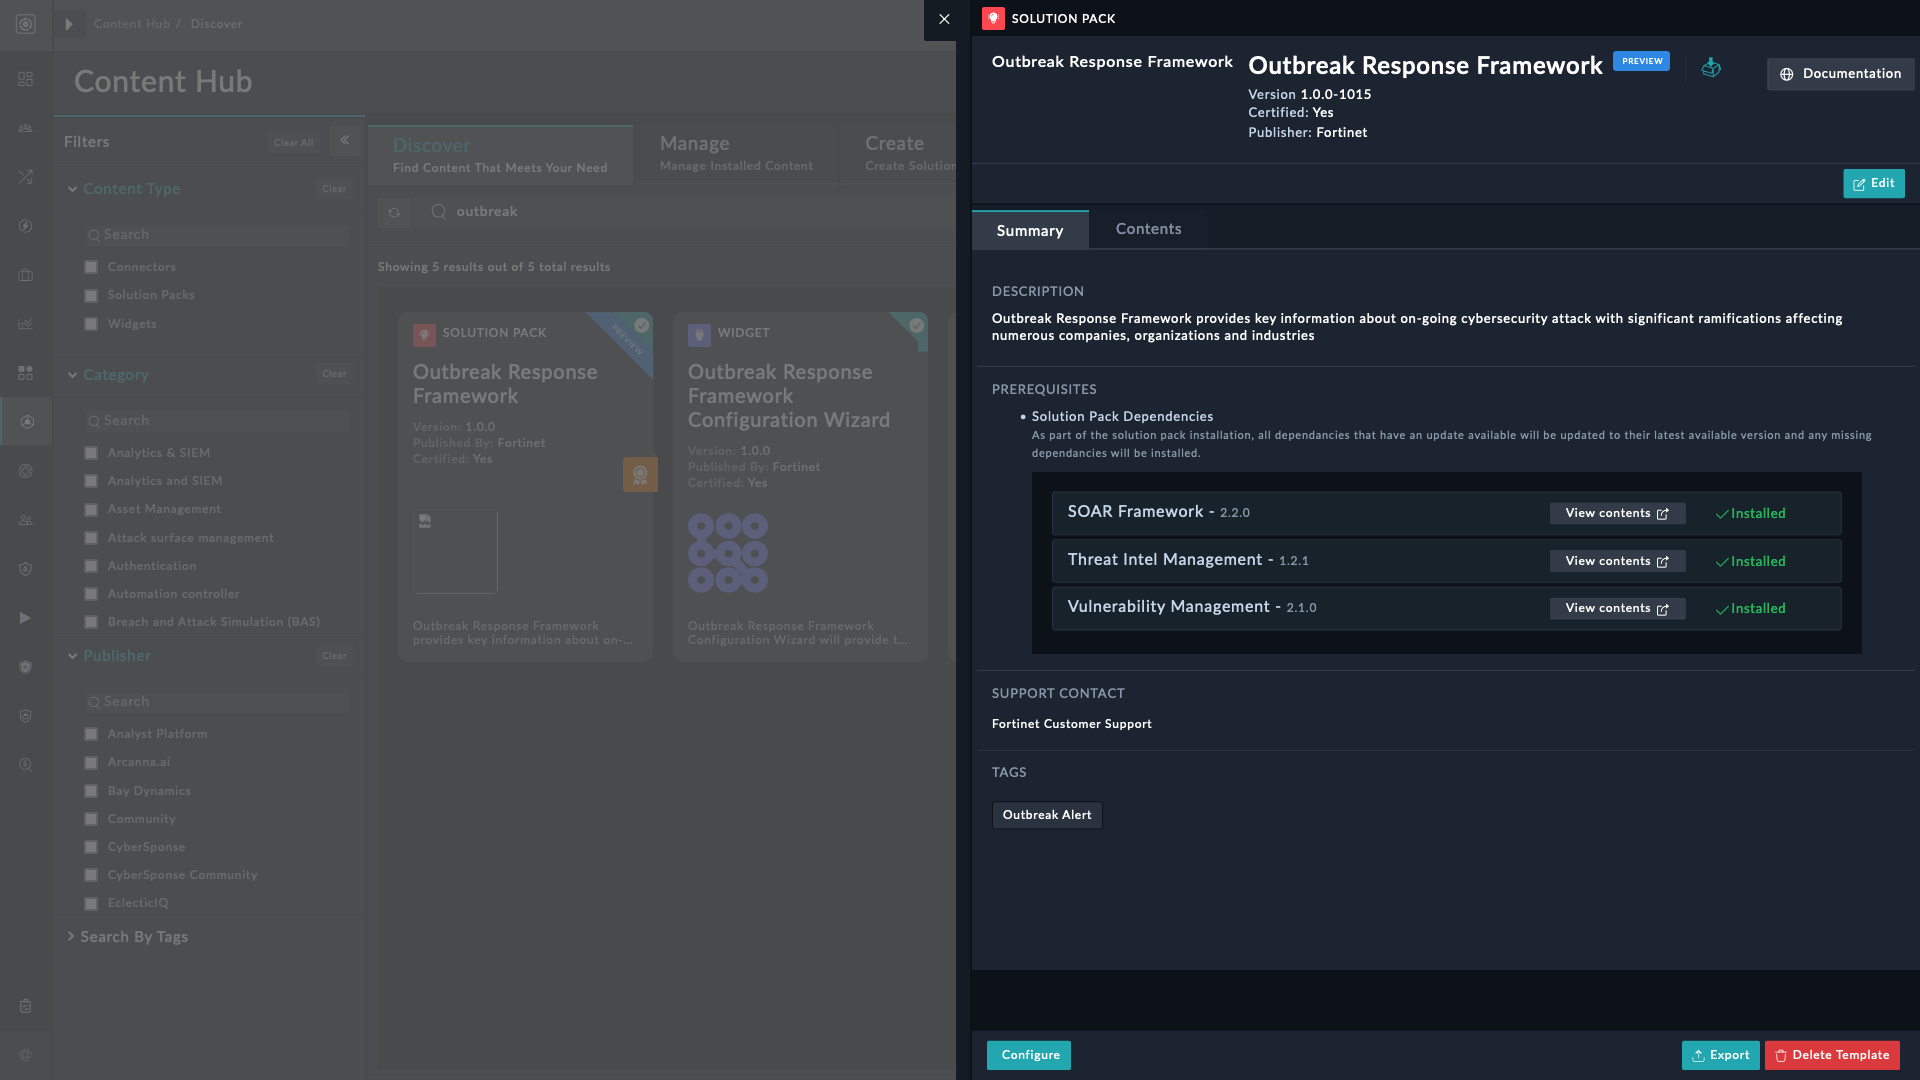
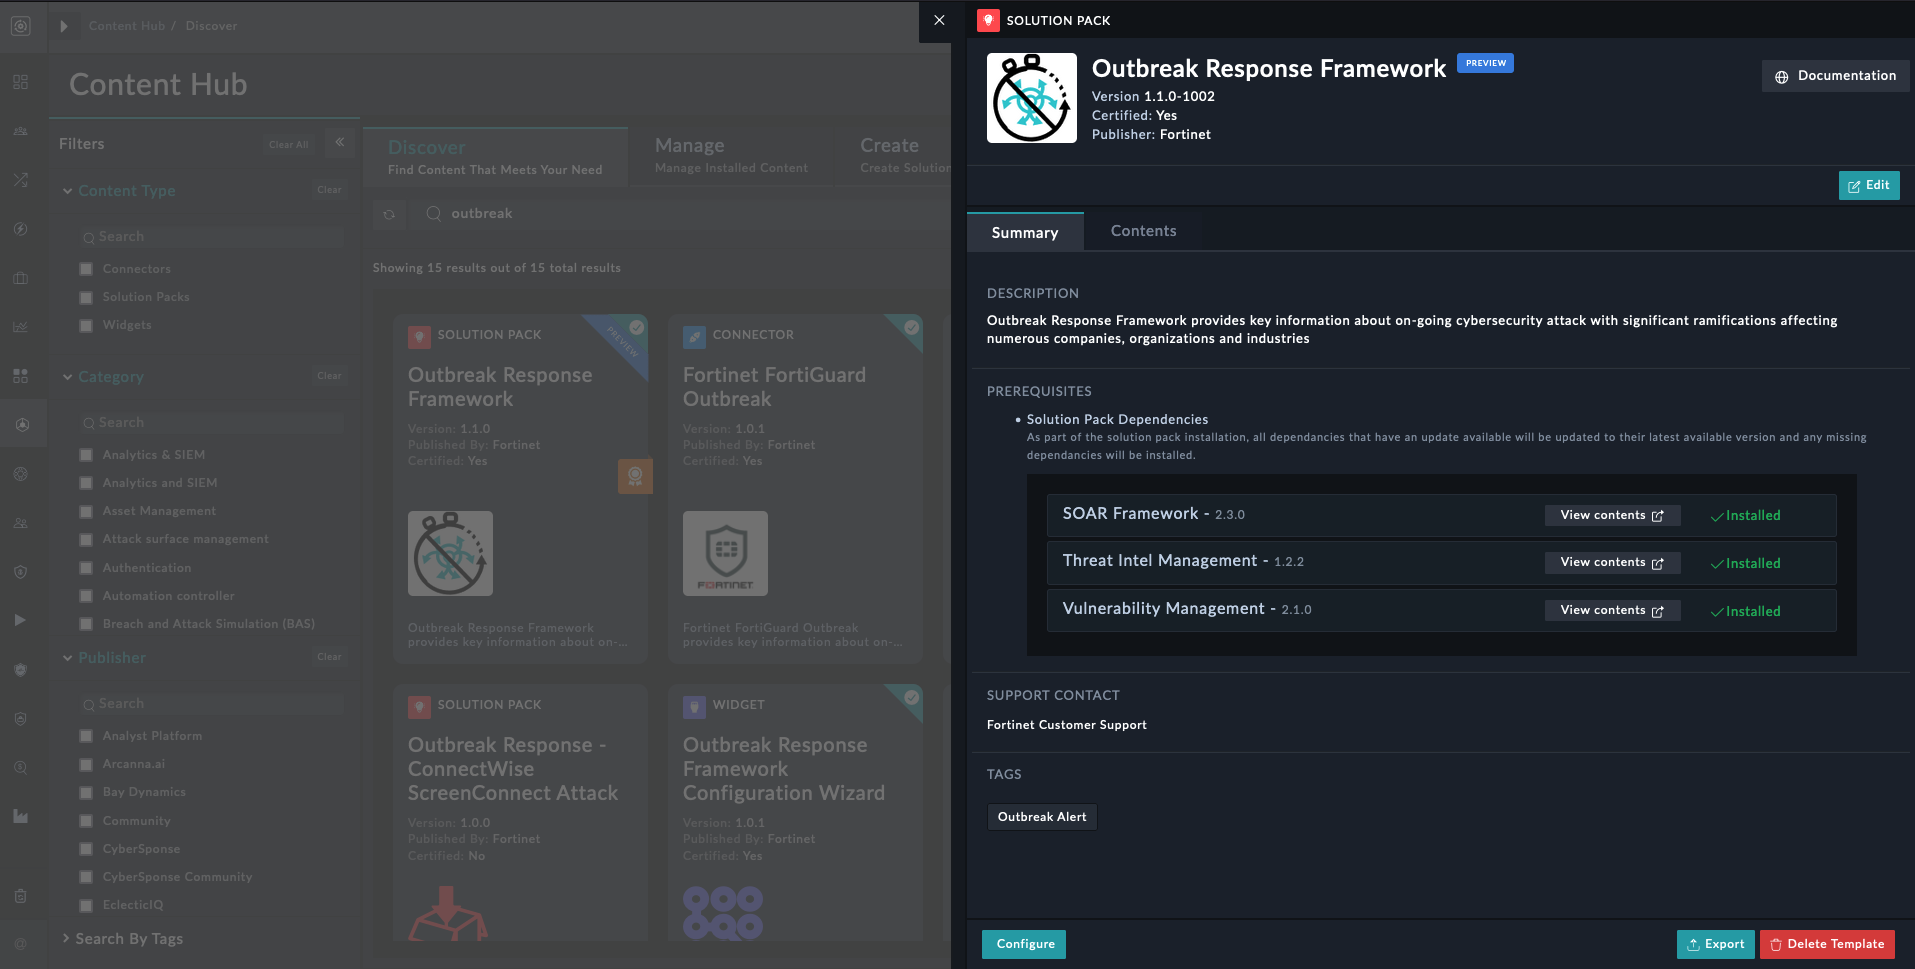
Updated doc for version 1.1.0

diff --git a/docs/contents.md b/docs/contents.md
@@ -84,8 +84,6 @@ The **Outbreak Response Framework** solution pack contains the following resourc
 
 ![](./res/icon-inactive.svg): To create tickets in your Ticketing or ITSM integrations, **_activate_** the *Create Ticket in ITSM Tools* playbook.
 
-![](./res/icon-known-issue.svg): Under demo mode when *Threat Hunting - FortiAnalyzer - Get Related Assets* playbook creates an asset, a uniqueness constraint violation occurs. For a possible solution, refer to the section **Usage** > **Workaround uniqueness constraint violation** [here](./usage.md#workaround---uniqueness-constraint-violation).
-
 ## System View
 
 | Name                | Description                               |

diff --git a/release_notes.md b/release_notes.md
@@ -1,0 +1,12 @@
+# What's New
+
+## Module Enhancements
+
+- Added Schedule for Investigating all Outbreak Alerts Solution Pack installed daily.
+
+- Added support for following languages, in all modules of Outbreak Response Framework, out-of-the-box:
+  - Chinese (Simplified)
+  - Japanese
+  - Korean
+
+> **Note:** This change is applicable from FortiSOAR 7.5.0 and later.

diff --git a/README.md b/README.md
@@ -1,6 +1,6 @@
 # Release Information 
 
-- **Version**: 1.0.0![](./docs/res/icon-preview.svg)
+- **Version**: 1.1.0![](./docs/res/icon-preview.svg)
 - **Certified**: Yes
 - **Publisher**: Fortinet
 - **Compatible Version**: 7.4.0 and later
